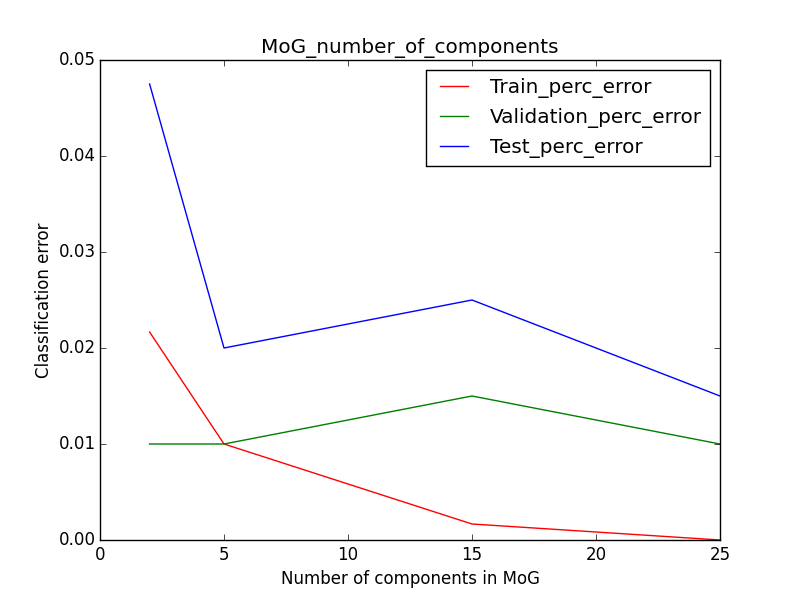
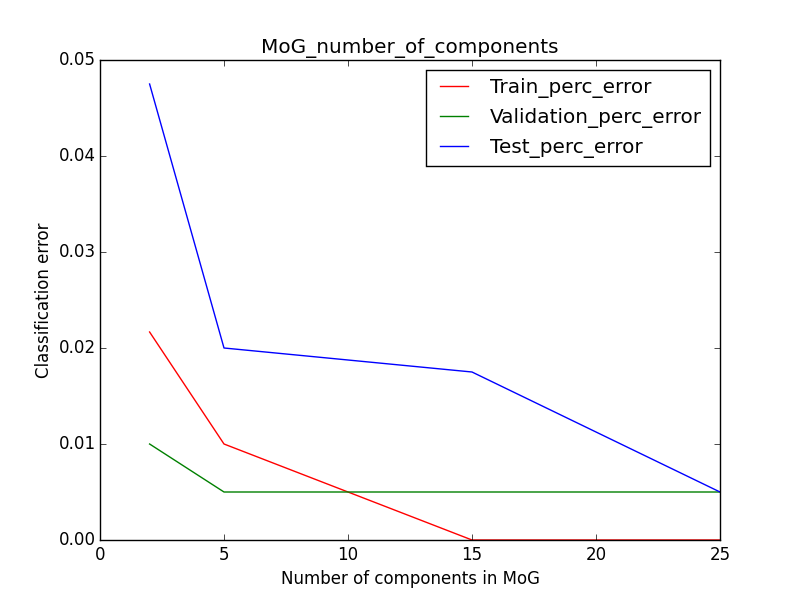
Almost done #3.5, need visualization

diff --git a/MoG/python/nn.py b/MoG/python/nn.py
@@ -1,0 +1,223 @@
+from util import *
+import sys
+import matplotlib.pyplot as plt
+import time
+plt.ion()
+
+class DimensionMismatchError(Exception):
+    pass
+
+def InitNN(num_inputs, num_hiddens, num_outputs):
+  """Initializes NN parameters."""
+  W1 = 0.01 * np.random.randn(num_inputs, num_hiddens)
+  W2 = 0.01 * np.random.randn(num_hiddens, num_outputs)
+  b1 = np.zeros((num_hiddens, 1))
+  b2 = np.zeros((num_outputs, 1))
+  return W1, W2, b1, b2
+
+def TrainNN(num_hiddens, eps, momentum, num_epochs, run_test=False):
+  """Trains a single hidden layer NN.
+
+  Inputs:
+    num_hiddens: NUmber of hidden units.
+    eps: Learning rate.
+    momentum: Momentum.
+    num_epochs: Number of epochs to run training for.
+
+  Returns:
+    W1: First layer weights.
+    W2: Second layer weights.
+    b1: Hidden layer bias.
+    b2: Output layer bias.
+    train_error: Training error at at epoch.
+    valid_error: Validation error at at epoch.
+  """
+
+  inputs_train, inputs_valid, inputs_test, target_train, target_valid, target_test = LoadData('digits.npz')
+  W1, W2, b1, b2 = InitNN(inputs_train.shape[0], num_hiddens, target_train.shape[0])
+  dW1 = np.zeros(W1.shape)
+  dW2 = np.zeros(W2.shape)
+  db1 = np.zeros(b1.shape)
+  db2 = np.zeros(b2.shape)
+  train_error = []
+  valid_error = []
+  test_error = []
+  train_class_error = []
+  valid_class_error = []
+  test_class_error = []
+  num_train_cases = inputs_train.shape[1]
+  for epoch in xrange(num_epochs):
+    # Forward prop
+    h_input = np.dot(W1.T, inputs_train) + b1  # Input to hidden layer.
+    h_output = 1 / (1 + np.exp(-h_input))  # Output of hidden layer.
+    logit = np.dot(W2.T, h_output) + b2  # Input to output layer.
+    prediction = 1 / (1 + np.exp(-logit))  # Output prediction.
+
+    # Compute cross entropy
+    train_CE = -np.mean(target_train * np.log(prediction) + (1 - target_train) * np.log(1 - prediction))
+
+    # Calculate classification error
+    train_Err = get_error_perc(target_train, prediction) 
+    train_class_error.append(train_Err)
+    
+    # Compute deriv
+    dEbydlogit = prediction - target_train
+
+    # Backprop
+    dEbydh_output = np.dot(W2, dEbydlogit)
+    dEbydh_input = dEbydh_output * h_output * (1 - h_output)
+
+    # Gradients for weights and biases.
+    dEbydW2 = np.dot(h_output, dEbydlogit.T)
+    dEbydb2 = np.sum(dEbydlogit, axis=1).reshape(-1, 1)
+    dEbydW1 = np.dot(inputs_train, dEbydh_input.T)
+    dEbydb1 = np.sum(dEbydh_input, axis=1).reshape(-1, 1)
+
+    #%%%% Update the weights at the end of the epoch %%%%%%
+    dW1 = momentum * dW1 - (eps / num_train_cases) * dEbydW1
+    dW2 = momentum * dW2 - (eps / num_train_cases) * dEbydW2
+    db1 = momentum * db1 - (eps / num_train_cases) * dEbydb1
+    db2 = momentum * db2 - (eps / num_train_cases) * dEbydb2
+
+    W1 = W1 + dW1
+    W2 = W2 + dW2
+    b1 = b1 + db1
+    b2 = b2 + db2
+
+    valid_CE = Evaluate(inputs_valid, target_valid, W1, W2, b1, b2)
+
+    # get classification error
+    valid_Err = Evaluate(inputs_valid, target_valid, W1, W2, b1, b2, output_Err=True)
+    valid_class_error.append(valid_Err)
+
+    # generalize -- run test set as well
+    if run_test:
+        test_CE = Evaluate(inputs_test, target_test, W1, W2, b1, b2)
+        test_Err = Evaluate(inputs_test, target_test, W1, W2, b1, b2, output_Err=True)
+        test_error.append(test_CE)
+        test_class_error.append(test_Err)
+
+
+    train_error.append(train_CE)
+    valid_error.append(valid_CE)
+    sys.stdout.write('\rStep %d Train CE %.5f Validation CE %.5f' % (epoch, train_CE, valid_CE))
+    sys.stdout.flush()
+    if (epoch % 100 == 0):
+      sys.stdout.write('\n')
+
+  sys.stdout.write('\n')
+  final_train_error = Evaluate(inputs_train, target_train, W1, W2, b1, b2)
+  final_valid_error = Evaluate(inputs_valid, target_valid, W1, W2, b1, b2)
+  final_test_error = Evaluate(inputs_test, target_test, W1, W2, b1, b2)
+  print 'Error: Train %.5f Validation %.5f Test %.5f' % (final_train_error, final_valid_error, final_test_error)
+  if run_test:
+    return W1, W2, b1, b2, train_error, valid_error, test_error, train_class_error, valid_class_error, test_class_error
+  return W1, W2, b1, b2, train_error, valid_error, train_class_error, valid_class_error
+
+def Evaluate(inputs, target, W1, W2, b1, b2, output_Err=False):
+  """Evaluates the model on inputs and target."""
+  h_input = np.dot(W1.T, inputs) + b1  # Input to hidden layer.
+  h_output = 1 / (1 + np.exp(-h_input))  # Output of hidden layer.
+  logit = np.dot(W2.T, h_output) + b2  # Input to output layer.
+  prediction = 1 / (1 + np.exp(-logit))  # Output prediction.
+  CE = -np.mean(target * np.log(prediction) + (1 - target) * np.log(1 - prediction))
+  if output_Err:
+      return get_error_perc(target, prediction)
+  return CE
+
+def DisplayErrorPlot(train_error, valid_error, mode="Cross Entropy", test=None):
+  plt.figure(1)
+  plt.clf()
+  plt.plot(range(len(train_error)), train_error, 'b', label='Train')
+  plt.plot(range(len(valid_error)), valid_error, 'g', label='Validation')
+  if test is not None:
+      plt.plot(range(len(test)), test, 'r', label='Test')
+  plt.xlabel('Epochs')
+  plt.ylabel(mode)
+  plt.legend()
+  #plt.show()
+  plt.savefig("nn_10_layer_" + mode)
+  #raw_input('Press Enter to exit.')
+
+def SaveModel(modelfile, W1, W2, b1, b2, train_error, valid_error):
+  """Saves the model to a numpy file."""
+  model = {'W1': W1, 'W2' : W2, 'b1' : b1, 'b2' : b2,
+           'train_error' : train_error, 'valid_error' : valid_error}
+  print 'Writing model to %s' % modelfile
+  np.savez(modelfile, **model)
+
+def LoadModel(modelfile):
+  """Loads model from numpy file."""
+  model = np.load(modelfile)
+  return model['W1'], model['W2'], model['b1'], model['b2'], model['train_error'], model['valid_error']
+
+def main():
+  num_hiddens = 10
+  eps = 0.1
+  momentum = 0.0
+  num_epochs = 1000
+
+  current_problem = [2.1, 2.2, 2.3, 2.4]
+  print "Running problems: ", current_problem
+
+  # 2.1 and 2.2
+  if 2.2 in current_problem and 2.1 in current_problem:
+      W1, W2, b1, b2, train_error, valid_error, train_class_error, valid_class_error = TrainNN(num_hiddens, eps, momentum, num_epochs)
+      DisplayErrorPlot(train_error, valid_error, mode='cross_entropy')
+      DisplayErrorPlot(train_class_error, valid_class_error, mode='classification_error') 
+
+  # 2.3
+  if 2.3 in current_problem:
+      for eps in [0.5, 0.2, 0.1]:
+          W1, W2, b1, b2, train_error, valid_error, train_class_error, valid_class_error = TrainNN(num_hiddens, eps, momentum, num_epochs)
+          # iterate through different eps
+          suffix = '_at_eps_' + str(eps)
+          suffix = suffix.replace('.', ',')
+          DisplayErrorPlot(train_error, valid_error, mode='cross_entropy' + suffix)
+          DisplayErrorPlot(train_class_error, valid_class_error, mode='classification_error' + suffix) 
+
+      for momentum in [0.9, 0.5, 0.0]:
+          W1, W2, b1, b2, train_error, valid_error, train_class_error, valid_class_error = TrainNN(num_hiddens, eps, momentum, num_epochs)
+          # iterate through different momentum
+          suffix = '_at_momentum_' + str(momentum)
+          suffix = suffix.replace('.', ',')
+          DisplayErrorPlot(train_error, valid_error, mode='cross_entropy' + suffix)
+          DisplayErrorPlot(train_class_error, valid_class_error, mode='classification_error' + suffix) 
+
+  # 2.4
+  if 2.4 in current_problem:
+      eps = 0.2
+      momentum = 0.5
+      for num_hiddens in [2, 5, 10, 30, 100]:
+          start = time.time()
+          (
+              W1, W2, b1, b2,
+              train_error, valid_error, test_error,
+              train_class_error, valid_class_error, test_class_error,
+          ) = TrainNN(num_hiddens, eps, momentum, num_epochs, run_test=True)
+          elapsed = time.time() - start
+          print "Training and testing time at hidden_unit=", num_hiddens, " is ", elapsed, "seconds"
+          # iterate through different num_hiddens
+          suffix = '_at_hidden_unit_' + str(num_hiddens)
+          DisplayErrorPlot(train_error, valid_error, mode='cross_entropy' + suffix, test=test_error)
+          DisplayErrorPlot(train_class_error, valid_class_error, mode='classification_error' + suffix, test=test_class_error) 
+
+  # If you wish to save the model for future use :
+  # outputfile = 'model.npz'
+  # SaveModel(outputfile, W1, W2, b1, b2, train_error, valid_error)
+
+def get_error_perc(target, prediction):
+    if len(target[0]) != len(prediction[0]):
+        raise DimensionMismatchError(
+                "Dimension of target does not match that of prediction! {0} : {1}"
+                .format(len(target), len(prediction))
+        )
+    n_sample = len(target[0])
+    n_correct = 0
+    for (t, p) in zip(target[0], prediction[0]):
+        if (t == 1 and p >= 0.5) or (t == 0 and p < 0.5):
+            n_correct += 1
+    return 100.0 - 100.0 * n_correct / n_sample
+
+if __name__ == '__main__':
+  main()

diff --git a/MoG/python/mogEM.py b/MoG/python/mogEM.py
@@ -144,12 +144,12 @@ def q3():
 def q4():
   iters = 10
   minVary = 0.01
-  errorTrain = np.zeros(4)
-  errorTest = np.zeros(4)
-  errorValidation = np.zeros(4)
-  print(errorTrain)
   numComponents = np.array([2, 5, 15, 25])
   T = numComponents.shape[0]  
+
+  errorTrain = np.zeros(T)
+  errorTest = np.zeros(T)
+  errorValidation = np.zeros(T)
   inputs_train, inputs_valid, inputs_test, target_train, target_valid, target_test = LoadData('digits.npz')
   train2, valid2, test2, target_train2, target_valid2, target_test2 = LoadData('digits.npz', True, False)
   train3, valid3, test3, target_train3, target_valid3, target_test3 = LoadData('digits.npz', False, True)
@@ -214,9 +214,57 @@ def q5():
   # Choose the best mixture of Gaussian classifier you have, compare this
   # mixture of Gaussian classifier with the neural network you implemented in
   # the last assignment.
+  iters = 10
+  minVary = 0.01
+  errorTrain = np.zeros(4)
+  errorTest = np.zeros(4)
+  errorValidation = np.zeros(4)
+  K = 25
+  inputs_train, inputs_valid, inputs_test, target_train, target_valid, target_test = LoadData('digits.npz')
+  train2, valid2, test2, target_train2, target_valid2, target_test2 = LoadData('digits.npz', True, False)
+  train3, valid3, test3, target_train3, target_valid3, target_test3 = LoadData('digits.npz', False, True)
+
+  # Train model with K components
+  p2, mu2, var2, logProbX2 = mogEM(train2, K, iters, minVary, use_kmeans=True)
+  p3, mu3, var3, logProbX3 = mogEM(train3, K, iters, minVary, use_kmeans=True)
+
+  p_d1_valid = mogLogProb(p2, mu2, var2, inputs_valid)
+  p_d2_valid = mogLogProb(p3, mu3, var3, inputs_valid)
+  
+  p_d1_train = mogLogProb(p2, mu2, var2, inputs_train)
+  p_d2_train = mogLogProb(p3, mu3, var3, inputs_train)
+  
+  p_d1_test = mogLogProb(p2, mu2, var2, inputs_test)
+  p_d2_test = mogLogProb(p3, mu3, var3, inputs_test)
+  
+  # classified as '3' iff p_d2 >= p_d1
+  decision_train = p_d2_train >= p_d1_train
+  decision_valid = p_d2_valid >= p_d1_valid
+  decision_test = p_d2_test >= p_d1_test
+  # correct_valid[i] == 1 iff decision_valid[i] == target_valid[i], 0 otherwise
+  correct_train = decision_train == target_train
+  correct_valid = decision_valid == target_valid
+  correct_test = decision_test == target_test
+  # perc_error = 1 - perc_correct
+  print "Validation error: ", 1.0 - correct_valid.mean()
+  print "Train error: ", 1.0 - correct_train.mean()
+  print "Test error: ", 1.0 - correct_test.mean()
 
   # Train neural network classifier. The number of hidden units should be
   # equal to the number of mixture components.
+  import nn
+  eps = 0.2
+  momentum = 0.5
+  num_epochs = 1000
+  (
+      W1, W2, b1, b2,
+      train_error, valid_error, test_error,
+      train_class_error, valid_class_error, test_class_error,
+  ) = nn.TrainNN(K, eps, momentum, num_epochs, run_test=True)
+
+  print "NN Train error: ", train_class_error[-1]
+  print "NN Validation error: ", valid_class_error[-1]
+  print "NN Test error: ", test_class_error[-1]
 
   # Show the error rate comparison.
   #-------------------- Add your code here --------------------------------
@@ -226,6 +274,5 @@ def q5():
 if __name__ == '__main__':
   #q2() 
   #q3()
-  q4()
-  #q5()
-
+  #q4()
+  q5()
